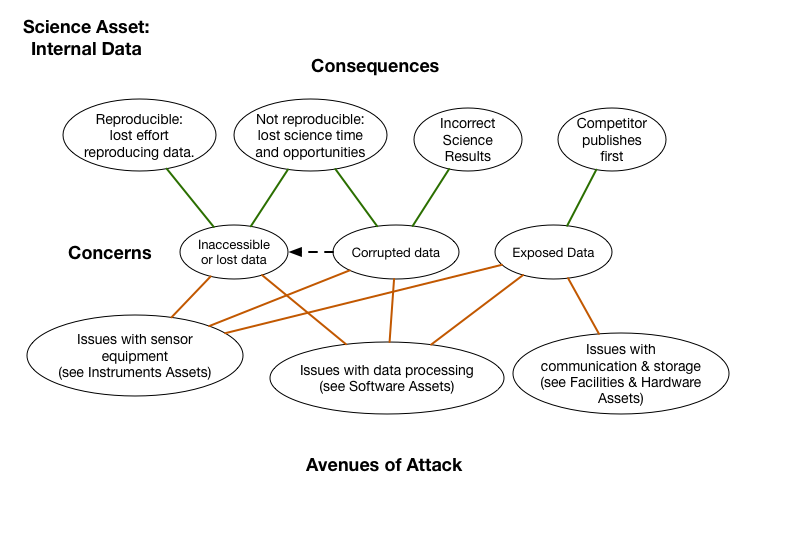
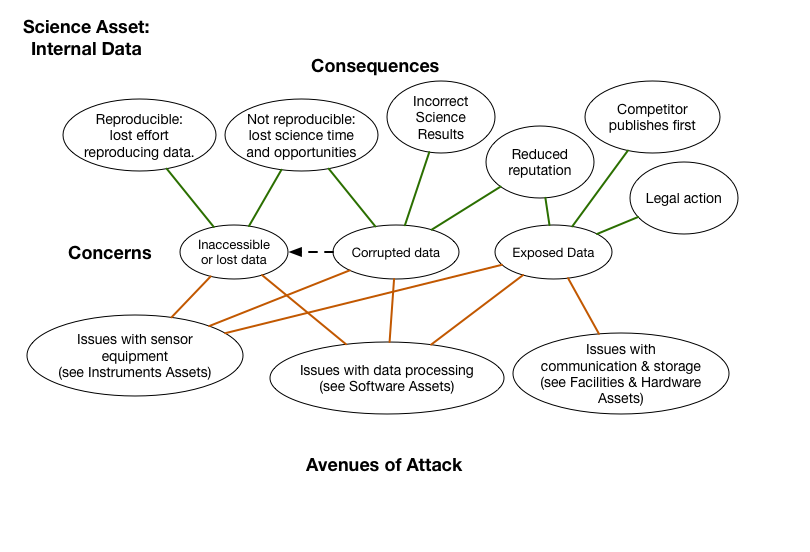
Finished the final example highlights.

diff --git a/OSCRP.md b/OSCRP.md
@@ -119,13 +119,13 @@ A physics lab and a materials science lab were affected by intrusions into the c
 ### Possibly targeted
 
 A group of hackers gained access to a vulnerable scientific computing cluster at University A and quickly determined that these computers are used by collaborators at other universities. The intruders used credentials captured on systems at University A to get into multiple compute clusters in research labs at University B and University C, collecting new captured credentials along the way and gaining additional access to other university systems. Compromised systems were down and unusable for several days in waves at the affected sites, while sysadmins and security personnel investigated the intrusions and rebuilt the affected systems. Users were affected by the downtime and urgent credential change requirements -- in same cases, more than once while the nature of the intrusions was still being investigated. Affected systems were re-hacked during this incident as a result of some privileged users' failure to change credentials.  
-**Asset:** Servers (compute clusters)
-**Concern:** Devices inaccessible and devices exposing sensitive information
+**Asset:** Servers (compute clusters)  
+**Concern:** Devices inaccessible and devices exposing sensitive information  
 **Consequences:** Inability to manipulate science data
 
 A group of very fast-moving intruders gained access to systems in Astronomy departments at numerous universities using techniques similar to the above. A core group of computers that were compromised and running Trojaned SSH binaries were associated with a research project being run from a physically remote location with poor network connectivity, and at the time the intrusion was discovered, ALL personnel directly familiar with the configuration and management of these systems were at that location, which greatly hampered investigation and recovery, and extended the period of down time for these systems. Most of the systems involved were run by scientists, not system administrators, who understandably prioritized science over system management and documentation. System names were reused several times, and in some cases servers back at the university had names that indicated a connection with the project, when in fact there was no current relationship with the project. Downtime, widespread credential changes, and general confusion all impacted the research project.  
-**Asset:** Servers and Networks
-**Concern:** Device inaccessible, devices exposing sensitive information and transport prevented
+**Asset:** Servers and networks  
+**Concern:** Device inaccessible, devices exposing sensitive information and transport prevented  
 **Consequences:** Inability to manipulate science data and delays in collaboration
 
 <!-- <a name="#targeted" / > -->
@@ -133,14 +133,14 @@ A group of very fast-moving intruders gained access to systems in Astronomy depa
 ### Targeted
 
 A politically controversial project (the building of a new large-scale telescope) was subjected to attack by "hacktivists" who generated large quantities of protest mail to the mailboxes of the officers of the project and the project's informational contact address, rendering these mailboxes unusable due to the volume of messages. Protesters also engaged in distributed denial-of-service attacks against the project's website, repeatedly knocking it offline. This made communication between the project and its supporters, the media, and citizenry who wished to learn more about the controversy extremely difficult.  
-**Asset:** 
-**Concern:** 
-**Consequences:** 
+**Asset:** Servers and networks  
+**Concern:** Devices inaccessible and transport prevented  
+**Consequences:** Inability to manipulate administration data and reduced reputation
 
 The primary mail server for a university's climate research group was hacked by protesters, who then copied off the mail from this server and made it public shortly before a scheduled world summit on climate change. Subsequent media reports accused researchers (who said their words in private email messages were taken out of context), of fraud and conspiracy. In addition to the immediate impact of the security incident on the mail server and its usability, the aftermath of the intrusion included multiple separate fraud and misconduct investigations. Although these investigations failed to substantiate allegations of fraud, public confidence in climate change research was damaged.  
-**Asset:** 
-**Concern:** 
-**Consequences:** 
+**Asset:** Internal data  
+**Concern:** Data exposed  
+**Consequences:** Reduced reputation and legal action
 
 <!-- <a name="#how-to-use-this-document" / > -->
 

diff --git a/assets/InternalData.md b/assets/InternalData.md
@@ -8,6 +8,6 @@ permalink: assets/InternalData.html
 
 *Asset Type:* Project data
 
-Any type of data element ranging from raw instrument data to post-processed results that is intermediate data, never intended for publication.  Data assets should be considered both while they are on storage systems or while they are in transit.
+Any type of data element ranging from raw instrument data, post-processed results, notes to e-mail that is written regarding science that is never intended for publication.  Data assets should be considered both while they are on storage systems or while they are in transit.
 
 ![Internal Data](../diagrams/InternalData.png)
